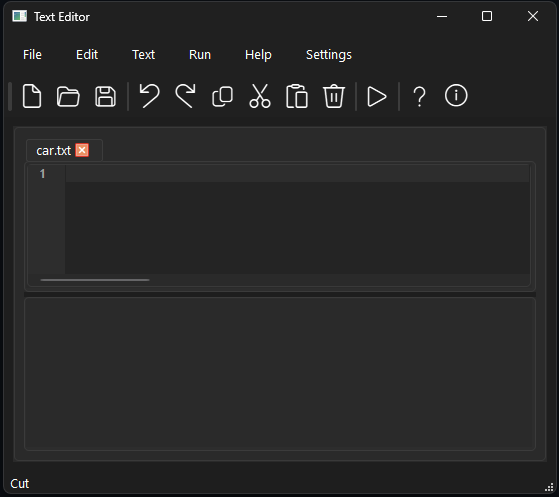
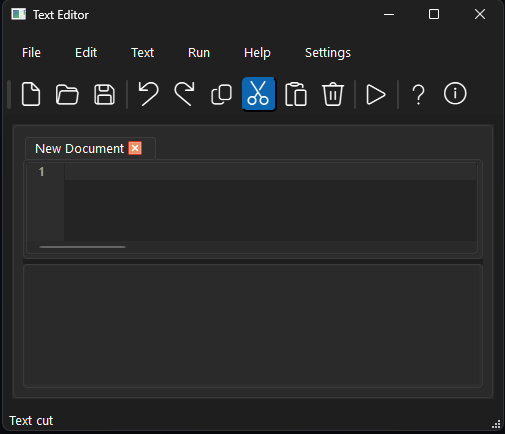
Update: translations, images
versions changed in funcs about/help
wrote window minimizeSize correcly

diff --git a/language.py b/language.py
@@ -27,19 +27,26 @@ class Language():
                 'actionExit': 'Выход',
 
                 # Edit menu actions
-                'actionUndo': 'Отменить',
-                'actionRedo': 'Повторить',
-                'actionCut': 'Вырезать',
-                'actionCopy': 'Копировать',
-                'actionPaste': 'Вставить',
-                'actionDelete': 'Удалить',
-                'actionSelectAll': 'Выделить всё',
+                'actionUndo': 'Действие отменено',
+                'actionRedo': 'Действие повторено',
+                'actionCut': 'Текст вырезан',
+                'actionCopy': 'Текст скопирован',
+                'actionPaste': 'Текст вставлен',
+                'actionDelete': 'Текст удалён',
+                'actionSelectAll': 'Весь текст выделен',
 
                 # Action tooltips
                 'actionNew_toolTip': 'Создать',
                 'actionOpen_toolTip': 'Открыть',
                 'actionRedo_toolTip': 'Повторить',
                 'actionRun_toolTip': 'Пуск',
+                'actionUndo_toolTip': 'Отменить',
+                'actionRedo_toolTip': 'Повторить',
+                'actionCut_toolTip': 'Вырезать',
+                'actionCopy_toolTip': 'Копировать',
+                'actionPaste_toolTip': 'Вставить',
+                'actionDelete_toolTip': 'Удалить',
+                'actionSelectAll_toolTip': 'Выделить всё',
 
                 # Text menu actions
                 'action_15': 'Постановка задачи',
@@ -131,19 +138,26 @@ class Language():
                 'actionExit': 'Exit',
 
                 # Edit menu actions
-                'actionUndo': 'Undo',
-                'actionRedo': 'Redo',
-                'actionCut': 'Cut',
-                'actionCopy': 'Copy',
-                'actionPaste': 'Paste',
-                'actionDelete': 'Delete',
-                'actionSelectAll': 'Select All',
+                'actionUndo': 'Action undone',
+                'actionRedo': 'Action redone',
+                'actionCut': 'Text cut',
+                'actionCopy': 'Text copied',
+                'actionPaste': 'Text pasted',
+                'actionDelete': 'Text deleted',
+                'actionSelectAll': 'All text selected',
 
                 # Tooltip for actions
                 'actionNew_toolTip': 'Create',
                 'actionOpen_toolTip': 'Open',
                 'actionRedo_toolTip': 'Redo',
                 'actionRun_toolTip': 'Run',
+                'actionUndo_toolTip': 'Undo',
+                'actionRedo_toolTip': 'Redo',
+                'actionCut_toolTip': 'Cut',
+                'actionCopy_toolTip': 'Copy',
+                'actionPaste_toolTip': 'Paste',
+                'actionDelete_toolTip': 'Delete',
+                'actionSelectAll_toolTip': 'Select All',
 
                 # Text menu actions
                 'action_15': 'Problem Statement',

diff --git a/text_editor.py b/text_editor.py
@@ -13,9 +13,9 @@ from ui_editor import Ui_MainWindow
 class TextEditor(QMainWindow, Ui_MainWindow):  # , Ui_MainWindow
     def __init__(self):
         super().__init__()
-        self.setMinimumSize(500, 400)
         # loadUi('text_editor.ui', self)
         self.setupUi(self)
+        self.setMinimumSize(500, 400)
 
         self.lang = Language()
         self.apply_language()
@@ -541,7 +541,7 @@ class TextEditor(QMainWindow, Ui_MainWindow):  # , Ui_MainWindow
             </head>
             <body>
                 <h1>Текстовый редактор</h1>
-                <div class='version'>Руководство пользователя   </div>
+                <div class='version'>Руководство пользователя | Версия 1.0.0</div>
 
                 <h2 id='intro'>Введение</h2>
                 <p><b>Текстовый редактор</b> — это приложение для создания и редактирования текстовых документов с возможностью синтаксического анализа. Программа предоставляет удобный интерфейс для работы с текстом и поддерживает все основные операции редактирования.</p>
@@ -770,7 +770,7 @@ class TextEditor(QMainWindow, Ui_MainWindow):  # , Ui_MainWindow
                 </head>
                 <body>
                     <h1>Text editor</h1>
-                    <div class='version'>User Manual | Version 1.0</div>
+                    <div class='version'>User Manual | Version 1.0.0</div>
 
                     <h2 id='intro'>Introduction</h2>
                     <p><b>Text editor</b> — This application is for creating and editing text documents with parsing capabilities. The program provides a user-friendly interface for working with text and supports all basic editing operations.</p>
@@ -935,7 +935,7 @@ class TextEditor(QMainWindow, Ui_MainWindow):  # , Ui_MainWindow
             text_browser.setHtml("""
                 <div style='text-align: center;'>
                     <h1>Текстовый редактор</h1>
-                    <p style='color: #868e94; font-size: 14px;'>Версия 1.0</p>
+                    <p style='color: #868e94; font-size: 14px;'>Версия 1.0.0</p>
 
                     <div style='padding: 5px;'>
                         <p style='font-size: 16px; line-height: 1;'>
@@ -962,7 +962,7 @@ class TextEditor(QMainWindow, Ui_MainWindow):  # , Ui_MainWindow
             text_browser.setHtml("""
                 <div style='text-align: center;'>
                     <h1>Text editor</h1>
-                    <p style='color: #868e94; font-size: 14px;'>Version 1.0</p>
+                    <p style='color: #868e94; font-size: 14px;'>Version 1.0.0</p>
 
                     <div style='padding: 5px;'>
                         <p style='font-size: 16px; line-height: 1;'>
